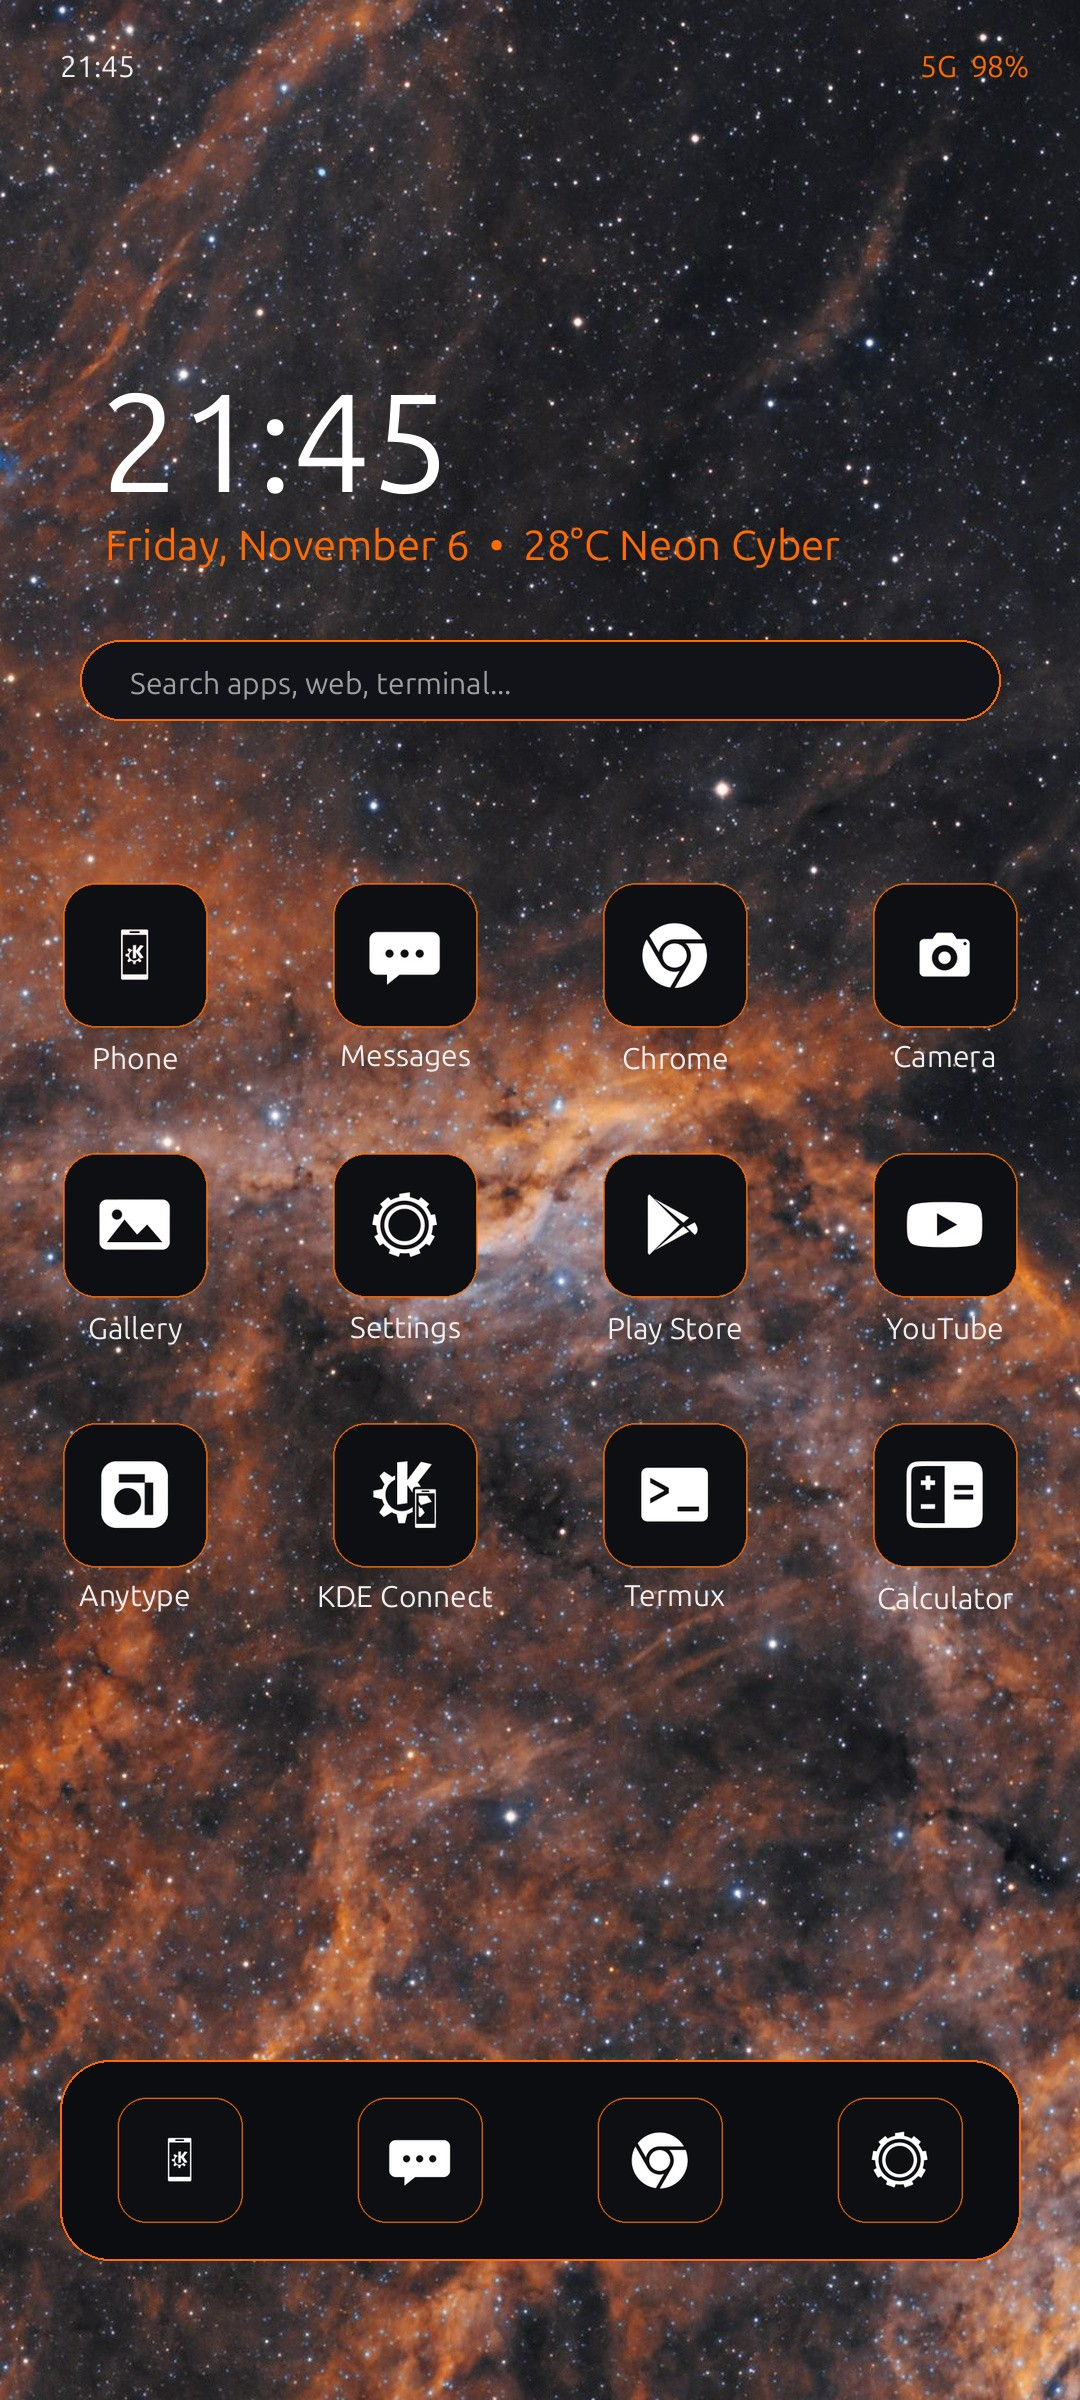
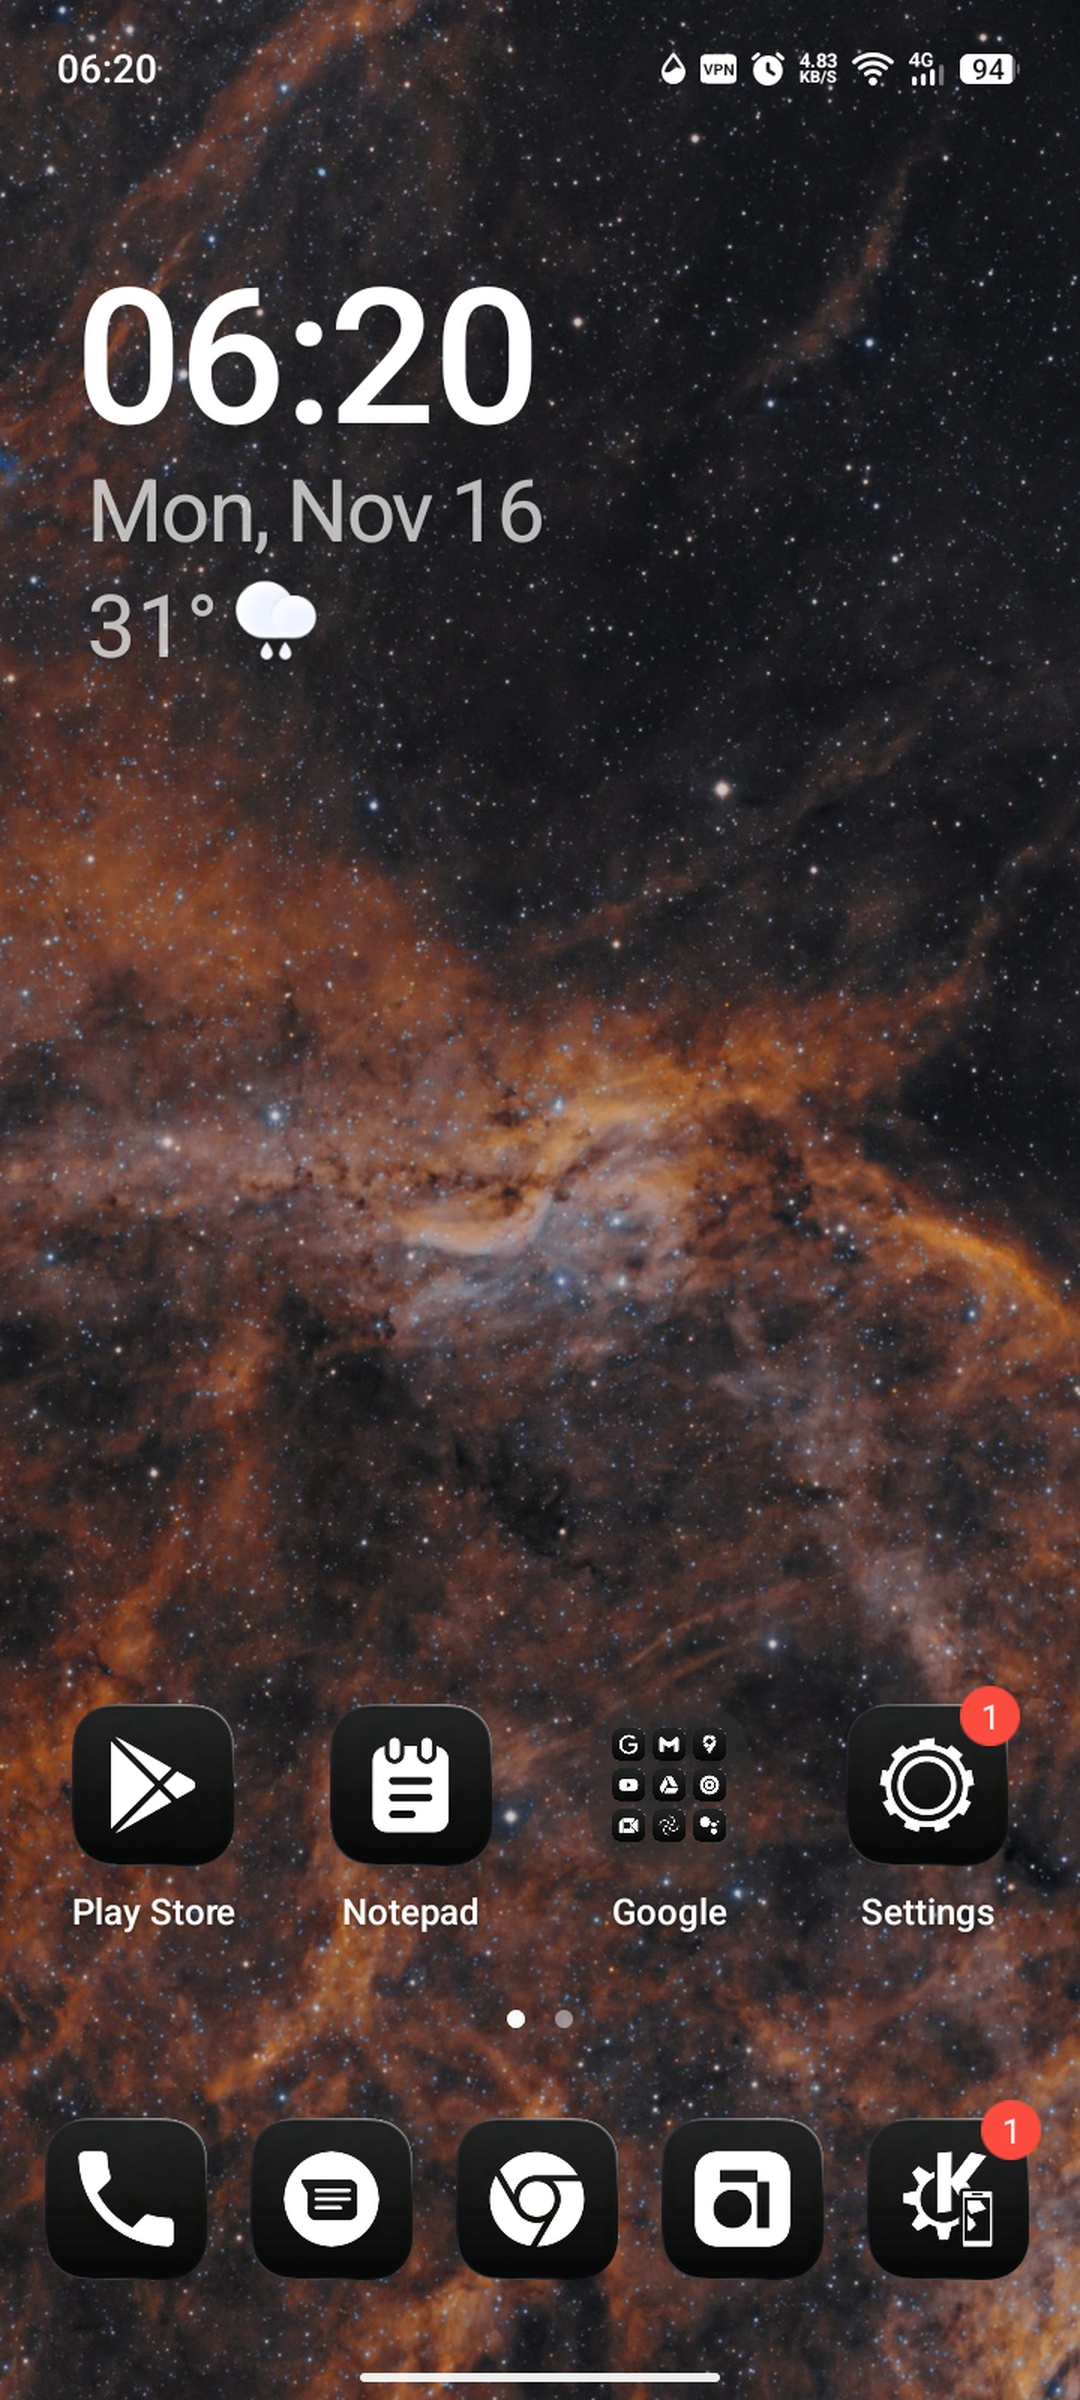
Update README and refresh preview screenshots with real device captures

diff --git a/README.md b/README.md
@@ -30,7 +30,7 @@ Deep space blacks (`#0A0A0B`), grayscale hierarchy, and vibrant neon orange (`#F
 space-neon-hios/
 ├── SpaceNeonMinimal.zth       # Ready-to-apply Tecno HiOS theme package
 ├── SpaceNeonMinimal.xth       # Ready-to-apply Infinix XOS theme package
-├── preview.jpg                # Homescreen preview mockup
+├── preview.jpg                # Actual HiOS homescreen preview screenshot
 ├── adb_deploy.sh              # 1-click ADB deploy script for connected phones
 ├── README.md                  # This file
 ├── INSTALL_HIOS.md            # Detailed HiOS manual installation guide
@@ -42,7 +42,7 @@ space-neon-hios/
 │   ├── manifest.xml           # Module definitions
 │   ├── Icons/                 # Package-mapped 192x192 squircle PNGs + mask fallbacks
 │   ├── Wallpaper/             # Theme wallpapers (default, home, lock)
-│   ├── Preview/               # Homescreen & lockscreen store mockups
+│   ├── Preview/               # Homescreen & lockscreen theme previews
 │   └── Thumbnail/             # HiTheme DIY picker thumbnail
 ├── wallpapers/                # 6 mobile (1080x2400) + desktop wallpapers
 ├── raw_monochrome_pngs_256/   # 256x256 transparent PNGs for desktop tools
